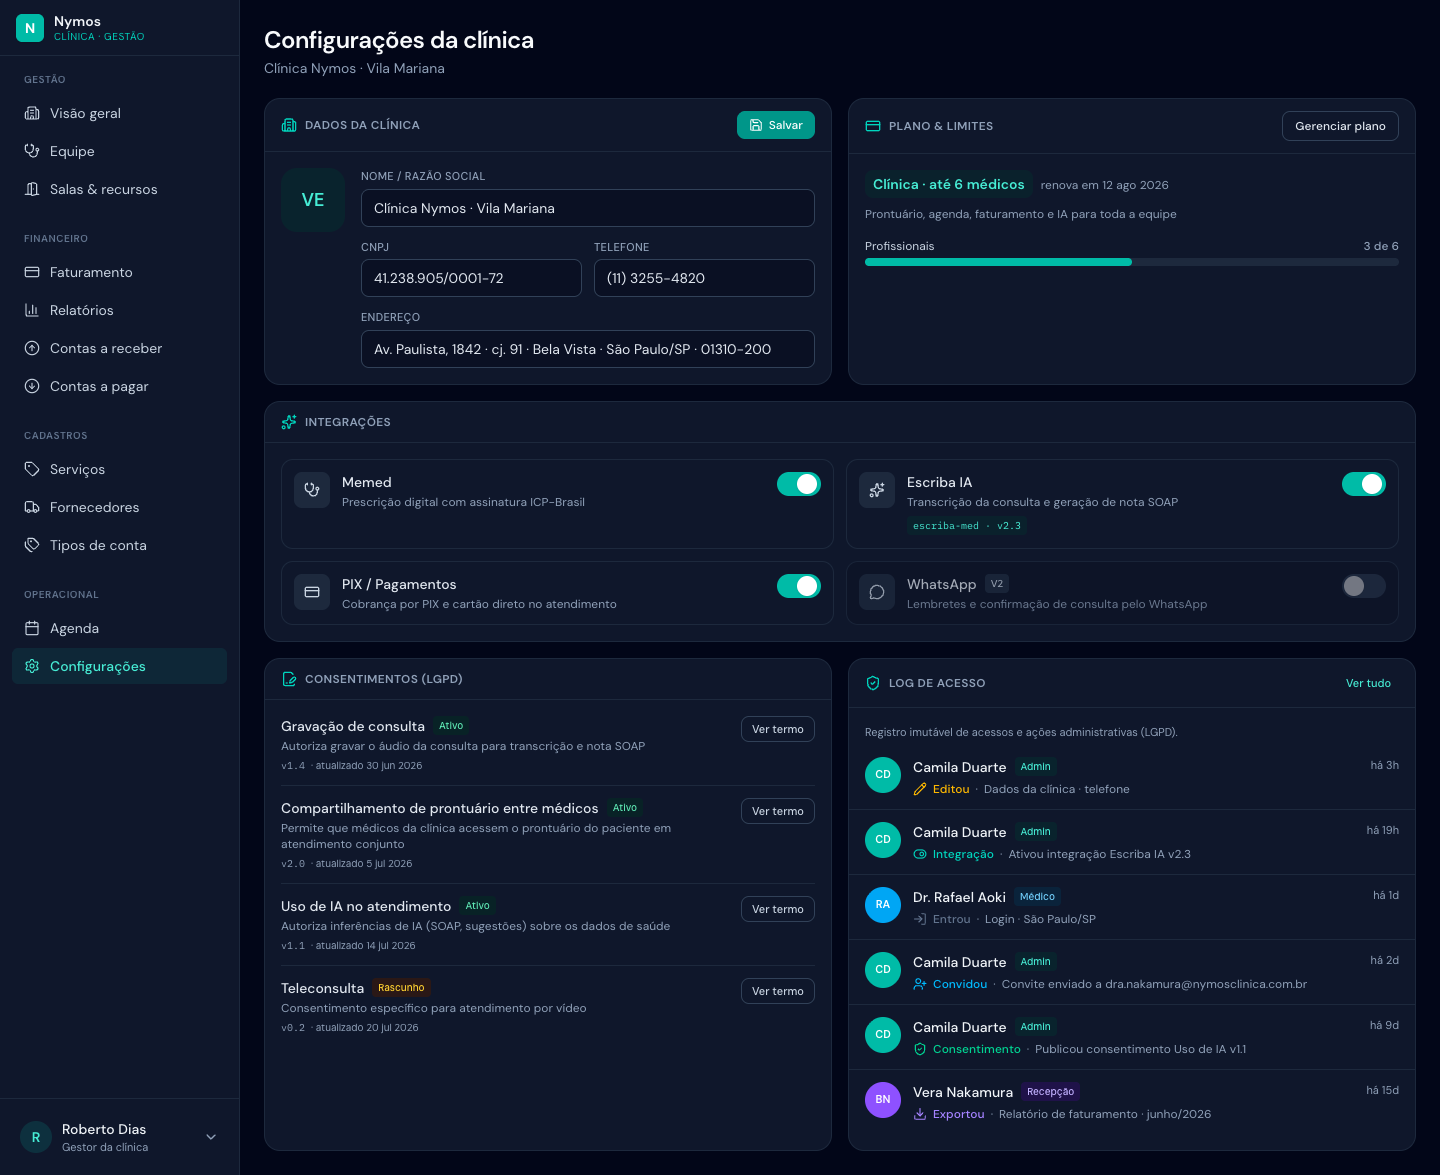
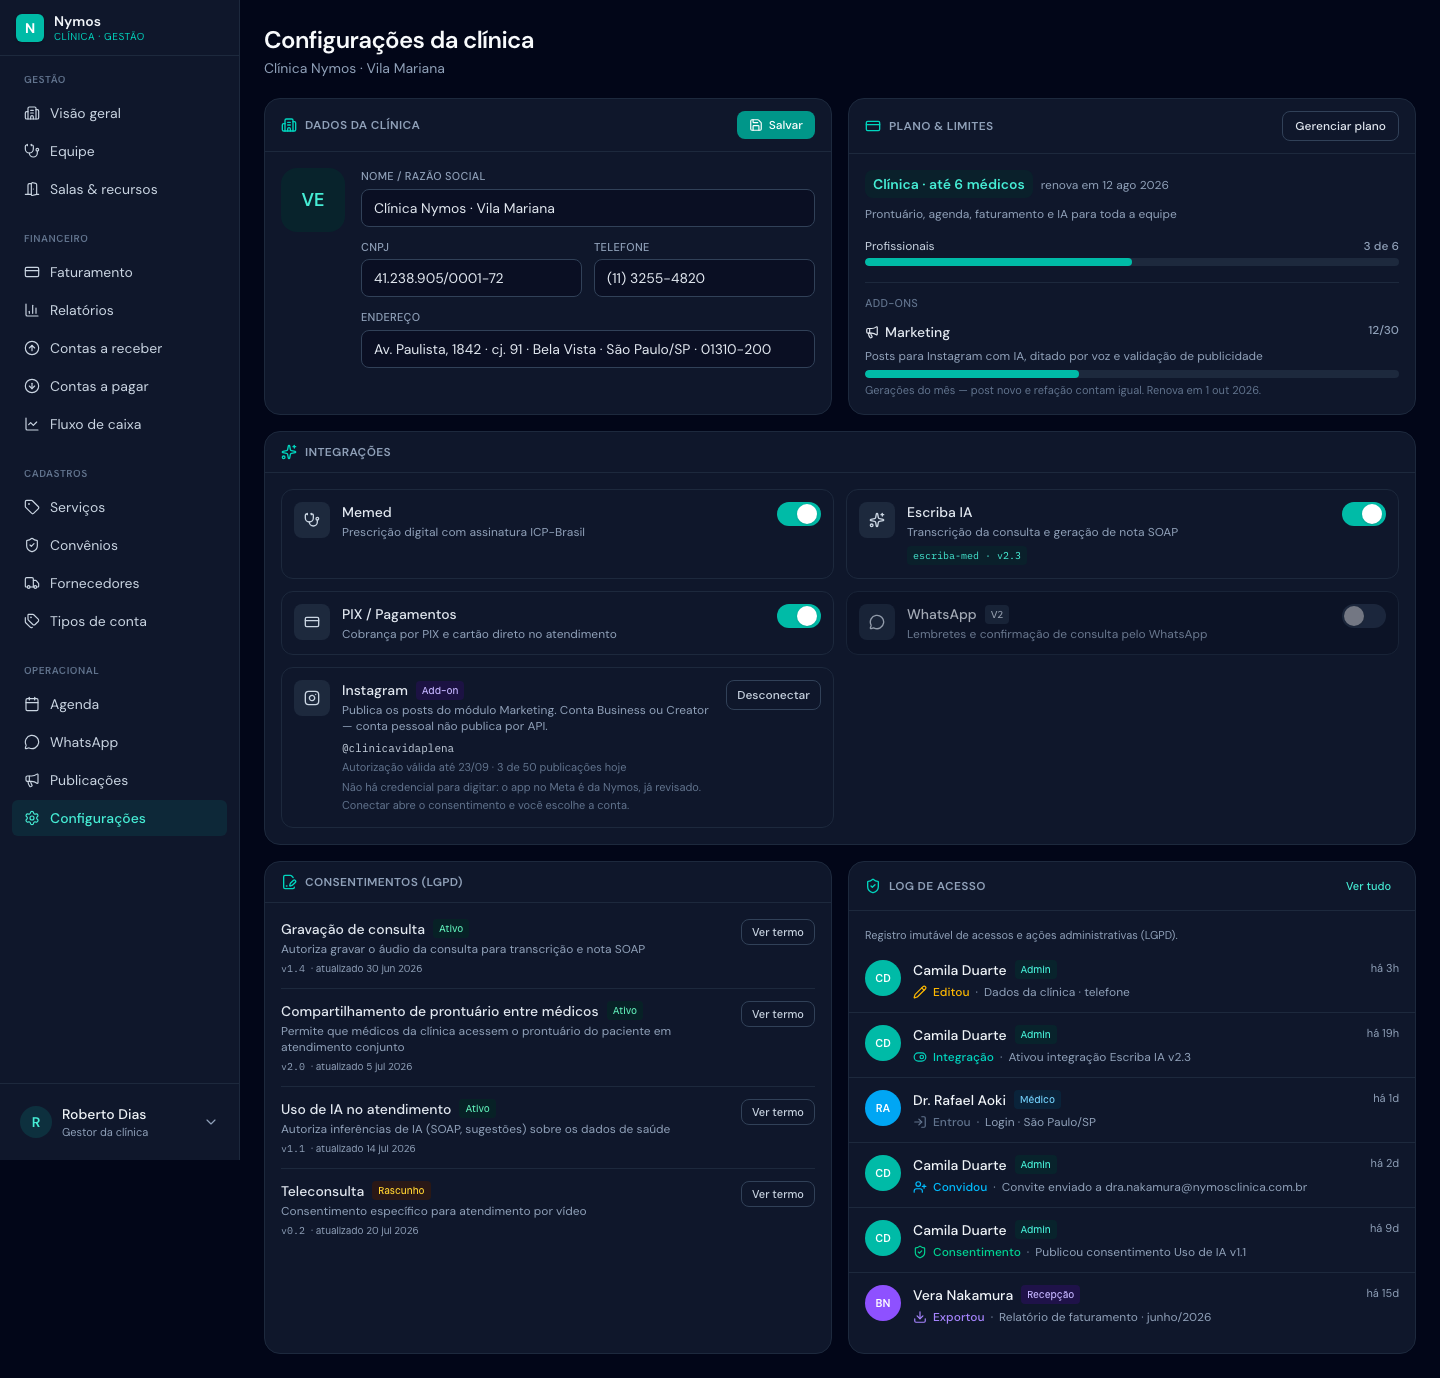
feat(clinic/configuracoes): conexão do Instagram e cota do add-on Marketing
Onde ficam as configurações do módulo de posts:
- Integrações ganha o card Instagram — badge Add-on, conta autorizada, validade e
  consumo do dia (3 de 50). Botão Conectar/Desconectar em vez de toggle: ligar é
  consentimento na Meta e desligar revoga token, switch não representa nenhum dos dois.
- Plano & limites ganha bloco Add-ons com a cota do mês (12/30) e a renovação — é
  preço, não preferência, então mora junto do plano.

Sem credencial para a clínica digitar: o app no Meta é da Nymos, com App Review feito
uma vez; a clínica só autoriza e escolhe a conta.

Spec de publicacoes documenta a divisão (o que é uma vez fica em Configurações, o que
é do dia a dia fica na section) e o modelo multi-tenant: a fila é por workspace, a
Nymos publica pelo mesmo módulo, e o validador lê autor.conselho — não o tenant.

diff --git a/src/sections-clinic/configuracoes-clinica/components/ConfiguracoesClinicaView.tsx b/src/sections-clinic/configuracoes-clinica/components/ConfiguracoesClinicaView.tsx
@@ -2,6 +2,8 @@ import {
   Building2,
   CreditCard,
   FileSignature,
+  Instagram,
+  Megaphone,
   MessageCircle,
   Save,
   ShieldCheck,
@@ -21,6 +23,7 @@ const INTEGRACAO_ICON: Record<IntegracaoId, typeof Stethoscope> = {
   escriba: Sparkles,
   pix: CreditCard,
   whatsapp: MessageCircle,
+  instagram: Instagram,
 }
 
 interface Props {
@@ -28,6 +31,16 @@ interface Props {
   onSalvarDados: () => void
   onGerenciarPlano: () => void
   onToggleIntegracao: (i: Integracao) => void
+  /**
+   * Conectar/desconectar uma integração OAuth (Instagram).
+   *
+   * Separada do toggle de propósito: ligar abre o consentimento na Meta e escolhe a
+   * conta; desligar revoga um token e para de publicar. Switch não representa nenhum
+   * dos dois.
+   */
+  onConectarIntegracao: (i: Integracao) => void
+  /** Abre o add-on — a section que ele destrava. */
+  onAbrirAddon: (id: string) => void
   onVerTermo: (c: Consentimento) => void
   onVerAuditoria: () => void
 }
@@ -115,6 +128,8 @@ export function ConfiguracoesClinicaView({
   onSalvarDados,
   onGerenciarPlano,
   onToggleIntegracao,
+  onConectarIntegracao,
+  onAbrirAddon,
   onVerTermo,
   onVerAuditoria,
 }: Props) {
@@ -207,6 +222,55 @@ export function ConfiguracoesClinicaView({
               </p>
             )}
           </div>
+
+          {/* Add-ons: cobrados por fora, cada um com cota própria */}
+          {plano.addons.length > 0 && (
+            <div className="mt-4 border-t border-slate-100 pt-3 dark:border-slate-800">
+              <p className="text-[11px] font-medium uppercase tracking-wide text-slate-400 dark:text-slate-500">
+                Add-ons
+              </p>
+              {plano.addons.map((a) => {
+                const pct = Math.round((a.usados / a.incluidos) * 100)
+                const esgotado = a.usados >= a.incluidos
+                return (
+                  <div key={a.id} className="mt-2.5">
+                    <div className="flex items-start justify-between gap-2">
+                      <div className="min-w-0">
+                        <button
+                          onClick={() => onAbrirAddon(a.secao)}
+                          className="inline-flex items-center gap-1.5 text-sm font-medium text-slate-800 hover:underline dark:text-slate-200"
+                        >
+                          <Megaphone className="h-3.5 w-3.5" /> {a.nome}
+                        </button>
+                        <p className="mt-0.5 text-xs text-slate-500 dark:text-slate-400">
+                          {a.descricao}
+                        </p>
+                      </div>
+                      <span
+                        className={`shrink-0 text-xs font-medium tabular-nums ${
+                          esgotado
+                            ? 'text-red-600 dark:text-red-400'
+                            : 'text-slate-500 dark:text-slate-400'
+                        }`}
+                      >
+                        {a.usados}/{a.incluidos}
+                      </span>
+                    </div>
+                    <div className="mt-1.5 h-2 w-full overflow-hidden rounded-full bg-slate-200 dark:bg-slate-800">
+                      <div
+                        className={`h-full rounded-full ${esgotado ? 'bg-red-500' : 'bg-teal-500'}`}
+                        style={{ width: `${Math.min(pct, 100)}%` }}
+                      />
+                    </div>
+                    <p className="mt-1 text-[11px] text-slate-400 dark:text-slate-500">
+                      Gerações do mês — post novo e refação contam igual. Renova em{' '}
+                      {dataCurta(a.renovaEm)}.
+                    </p>
+                  </div>
+                )
+              })}
+            </div>
+          )}
         </Card>
       </div>
 
@@ -238,6 +302,11 @@ export function ConfiguracoesClinicaView({
                           V2
                         </span>
                       )}
+                      {i.addon && (
+                        <span className="rounded bg-violet-50 px-1.5 py-0.5 text-[10px] font-medium text-violet-700 dark:bg-violet-950/40 dark:text-violet-300">
+                          Add-on
+                        </span>
+                      )}
                     </div>
                     <p className="mt-0.5 text-xs text-slate-500 dark:text-slate-400">
                       {i.descricao}
@@ -247,13 +316,50 @@ export function ConfiguracoesClinicaView({
                         {i.modelo} · {i.versao}
                       </span>
                     )}
+                    {i.oauth && (
+                      <div className="mt-1.5">
+                        {i.ativa && i.conta ? (
+                          <>
+                            <p className="font-mono text-[11px] text-slate-600 dark:text-slate-300">
+                              {i.conta}
+                            </p>
+                            {i.detalhe && (
+                              <p className="mt-0.5 text-[11px] text-slate-400 dark:text-slate-500">
+                                {i.detalhe}
+                              </p>
+                            )}
+                          </>
+                        ) : (
+                          <p className="text-[11px] text-slate-400 dark:text-slate-500">
+                            Nenhuma conta conectada — nada é publicado.
+                          </p>
+                        )}
+                        <p className="mt-1 text-[11px] leading-relaxed text-slate-400 dark:text-slate-500">
+                          Não há credencial para digitar: o app no Meta é da Nymos, já revisado.
+                          Conectar abre o consentimento e você escolhe a conta.
+                        </p>
+                      </div>
+                    )}
                   </div>
-                  <Switch
-                    ativo={i.ativa}
-                    disabled={i.indisponivel}
-                    onToggle={() => onToggleIntegracao(i)}
-                    label={`Ativar ${i.nome}`}
-                  />
+                  {i.oauth ? (
+                    <button
+                      onClick={() => onConectarIntegracao(i)}
+                      className={`shrink-0 rounded-lg px-2.5 py-1.5 text-xs font-medium ${
+                        i.ativa
+                          ? 'border border-slate-200 text-slate-600 hover:bg-slate-50 dark:border-slate-700 dark:text-slate-300 dark:hover:bg-slate-800'
+                          : 'bg-teal-600 text-white hover:bg-teal-700'
+                      }`}
+                    >
+                      {i.ativa ? 'Desconectar' : 'Conectar'}
+                    </button>
+                  ) : (
+                    <Switch
+                      ativo={i.ativa}
+                      disabled={i.indisponivel}
+                      onToggle={() => onToggleIntegracao(i)}
+                      label={`Ativar ${i.nome}`}
+                    />
+                  )}
                 </div>
               )
             })}

diff --git a/product-clinic/sections/configuracoes-clinica/types.ts b/product-clinic/sections/configuracoes-clinica/types.ts
@@ -7,7 +7,7 @@ export type AcaoAudit =
   | 'exportou'
   | 'consentimento'
 export type StatusConsentimento = 'ativo' | 'rascunho'
-export type IntegracaoId = 'memed' | 'escriba' | 'pix' | 'whatsapp'
+export type IntegracaoId = 'memed' | 'escriba' | 'pix' | 'whatsapp' | 'instagram'
 
 export interface DadosClinica {
   nome: string
@@ -23,6 +23,27 @@ export interface PlanoInfo {
   profissionais: number
   maxProfissionais: number
   renovaEm: string
+  /** Módulos pagos por fora do plano base. Hoje só Marketing (section `publicacoes`). */
+  addons: AddonContratado[]
+}
+
+/**
+ * Um add-on cobrado à parte, com cota própria.
+ *
+ * Cota existe porque o módulo tem custo variável (chamada de IA e publicação), e não
+ * porque o plano quer limitar uso — por isso o número vive aqui, junto do plano, e
+ * não escondido dentro da tela que o gasta.
+ */
+export interface AddonContratado {
+  id: string
+  nome: string
+  descricao: string
+  /** Gerações do mês (post novo e refação contam igual). */
+  usados: number
+  incluidos: number
+  renovaEm: string
+  /** A section que o add-on destrava. */
+  secao: string
 }
 
 export interface Integracao {
@@ -35,6 +56,19 @@ export interface Integracao {
   /** Só para Escriba IA: modelo + versão do transcritor/SOAP. */
   modelo?: string
   versao?: string
+  /**
+   * Integração que exige OAuth com um provedor externo (Instagram/Facebook).
+   *
+   * O toggle não serve: ligar é um fluxo de consentimento na Meta, e desligar
+   * revoga um token. O card mostra a conta e um botão — nunca um switch.
+   */
+  oauth?: boolean
+  /** A conta autorizada, quando conectada. `@handle`. */
+  conta?: string
+  /** Linha de estado: validade da autorização, limite diário, o que for verdade hoje. */
+  detalhe?: string
+  /** Marca "Add-on" — módulo pago por fora do plano base. */
+  addon?: boolean
 }
 
 export interface Consentimento {

diff --git a/src/sections-clinic/configuracoes-clinica/ConfiguracoesClinica.tsx b/src/sections-clinic/configuracoes-clinica/ConfiguracoesClinica.tsx
@@ -34,6 +34,32 @@ export default function ConfiguracoesClinicaPreview() {
     pushToast(`${alvo.nome} ${alvo.ativa ? 'desativada' : 'ativada'} (mock)`)
   }
 
+  /**
+   * Conectar/desconectar OAuth. Desconectar para de publicar — por isso o toast diz
+   * isso, e não "integração desativada".
+   */
+  const conectarIntegracao = (alvo: Integracao) => {
+    setIntegracoes((prev) =>
+      prev.map((i) =>
+        i.id === alvo.id
+          ? {
+              ...i,
+              ativa: !i.ativa,
+              conta: i.ativa ? undefined : '@clinicavidaplena',
+              detalhe: i.ativa
+                ? undefined
+                : 'Autorização válida por 60 dias · 0 de 50 publicações hoje',
+            }
+          : i,
+      ),
+    )
+    pushToast(
+      alvo.ativa
+        ? `${alvo.nome} desconectada — nada mais é publicado até reconectar`
+        : `${alvo.nome} conectada como @clinicavidaplena (mock)`,
+    )
+  }
+
   return (
     <>
       <ConfiguracoesClinicaView
@@ -41,6 +67,8 @@ export default function ConfiguracoesClinicaPreview() {
         onSalvarDados={() => pushToast('Dados da clínica salvos (mock)')}
         onGerenciarPlano={() => pushToast('Gerenciar plano · fluxo de billing (mock)')}
         onToggleIntegracao={toggleIntegracao}
+        onConectarIntegracao={conectarIntegracao}
+        onAbrirAddon={(secao) => pushToast(`Abrir /clinic/sections/${secao} (mock)`)}
         onVerTermo={(c) => pushToast(`Termo "${c.titulo}" ${c.versao} (detalhe mock)`)}
         onVerAuditoria={() => pushToast('Audit log completo (mock)')}
       />

diff --git a/product-clinic/sections/configuracoes-clinica/spec.md b/product-clinic/sections/configuracoes-clinica/spec.md
@@ -12,6 +12,20 @@ O painel de administração do workspace da clínica para o **Admin/Gestor**. Co
 ### Conferir plano e limites
 - Vê plano atual + uso de profissionais (X de maxProfessionals) com barra
 - "Gerenciar plano" abre fluxo de billing (mock toast)
+- **Add-ons** em bloco próprio no fim do card: nome, descrição e a **cota do mês** com barra
+  (`12/30`, vermelha quando esgotada) e a data de renovação. Hoje só **Marketing**, que destrava a
+  section `publicacoes`; o nome leva para ela. A cota mora aqui porque é preço, não é preferência —
+  a mesma que o header de Publicações mostra.
+
+### Conectar Instagram (add-on Marketing)
+- O card do Instagram **não tem toggle**: tem `@conta`, a validade da autorização, o consumo do dia
+  (`3 de 50`) e um botão **Conectar / Desconectar**. Ligar é consentimento na Meta, desligar revoga
+  token — switch não representa nenhum dos dois.
+- **Não há credencial para a clínica digitar.** O app no Meta é da Nymos, já passado por App Review;
+  o que a clínica faz é autorizar e escolher a conta. Exige conta **Business ou Creator** — conta
+  pessoal não publica por API.
+- Desconectar para de publicar: os posts agendados ficam na fila e o aviso aparece na section
+  Publicações.
 
 ### Ligar/desligar integrações
 - Cada integração é um card com toggle; alternar dispara toast
@@ -32,7 +46,7 @@ O painel de administração do workspace da clínica para o **Admin/Gestor**. Co
 - **Header**: "Configurações da clínica" + nome da clínica
 - **Dados da clínica**: logo placeholder + inputs (nome, CNPJ, endereço, telefone) + "Salvar"
 - **Plano & limites**: card com plano, uso de profissionais (barra X/max), "Gerenciar plano"
-- **Integrações**: grid de cards, cada um com ícone, nome, descrição, toggle (Memed, Escriba IA c/ modelo+versão, PIX, WhatsApp c/ atalho pro bot; IA no WhatsApp V2 desabilitada)
+- **Integrações**: grid de cards, cada um com ícone, nome, descrição, toggle (Memed, Escriba IA c/ modelo+versão, PIX, WhatsApp c/ atalho pro bot; IA no WhatsApp V2 desabilitada). **Instagram** é o caso fora do padrão: badge "Add-on", conta + validade + consumo do dia, e botão Conectar/Desconectar no lugar do switch
 - **Consentimentos (LGPD)**: lista com status (ativo), versão, data, "Ver termo"
 - **Audit log**: linhas com avatar + autor + papel + ação + alvo + tempo relativo, "Ver tudo"
 

diff --git a/product-clinic/sections/publicacoes/spec.md b/product-clinic/sections/publicacoes/spec.md
@@ -45,6 +45,32 @@ e qual trecho.
 - Vê o estado da **conta conectada** (@, publicados hoje / limite diário, quando o token expira) e
   reconecta quando pedido.
 
+## Onde ficam as configurações
+Divisão por frequência de uso, não por assunto:
+
+| Onde | O quê |
+|---|---|
+| **Configurações da clínica** → Integrações | Conectar/desconectar o Instagram, conta autorizada, validade da autorização. Feito uma vez |
+| **Configurações da clínica** → Plano & limites → Add-ons | A cota do mês do add-on Marketing e a renovação. É preço, não preferência |
+| **Esta section** | Reconectar quando a autorização vence (o aviso nasce aqui), pauta semanal, tom e formato por post |
+
+**Não existe credencial para digitar em lugar nenhum.** O app no Meta é da Nymos, com App Review
+feito uma vez; cada clínica só passa pelo OAuth e escolhe a conta. É o que faz o módulo escalar sem
+suporte manual por clínica.
+
+## Multi-tenant: a Nymos publica pelo mesmo módulo
+A fila é por **workspace**, e a Nymos é um workspace como qualquer outro — o mesmo módulo serve a
+área administrativa da plataforma e as clínicas, sem segunda implementação. O que muda por tenant:
+
+- **Conta conectada é uma por workspace** (`workspaceId + provider + contaExterna`), então o limite
+  de 50/dia da API nunca é disputado entre tenants.
+- **Cota é do add-on do workspace.** O workspace interno da Nymos não compra add-on: cota própria.
+- **O validador é por autor, não por tenant.** Post de clínica tem autor com conselho (CRN/CRM/…) e
+  cai no código de ética dele. Post da Nymos não tem conselho — cai em publicidade de produto de
+  saúde (e nas vedações da LGPD, que valem para todo mundo). Por isso a regra vem de
+  `autor.conselho`, e não de uma constante da tela: um `if tenant === 'nymos'` teria deixado o
+  back-office publicando sem validação nenhuma.
+
 ## Regras que a tela materializa
 - **Aprovação humana é obrigatória.** Não existe caminho de brief → publicado sem alguém abrir o
   preview. O status `publicando` é do robô; `revisar` é da pessoa.
